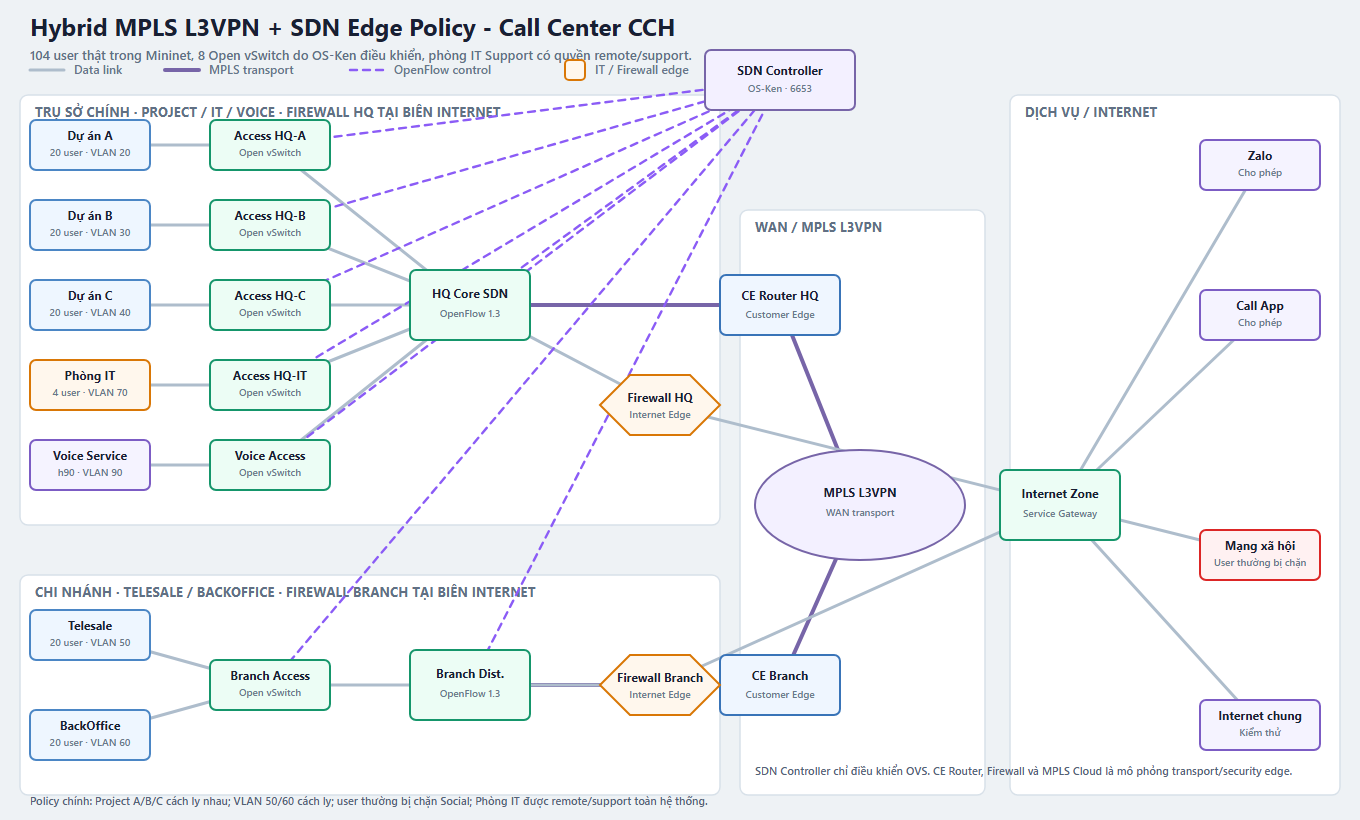
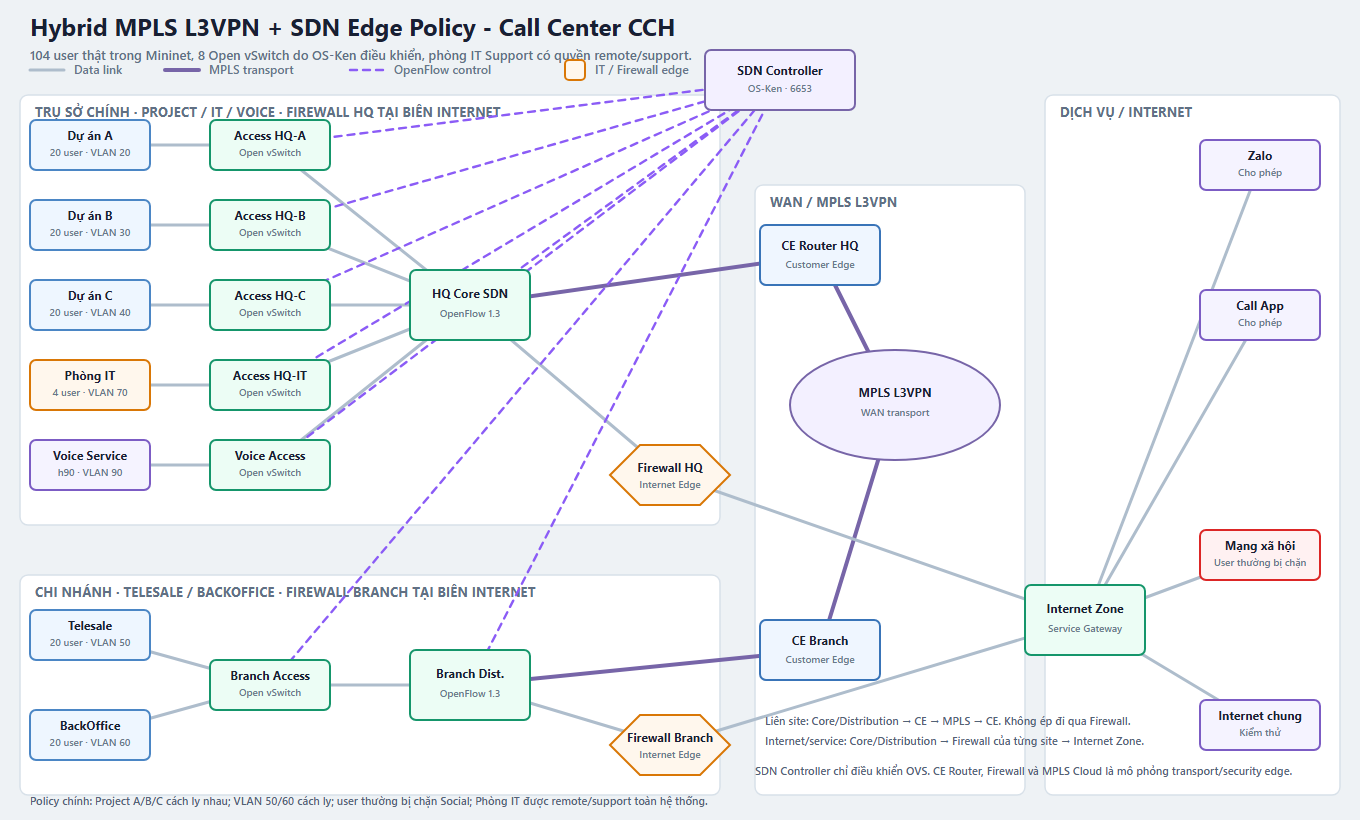
Clarify CE and firewall paths in SDN diagram

diff --git a/dashboard/frontend/src/components/TopologyCanvas.tsx b/dashboard/frontend/src/components/TopologyCanvas.tsx
@@ -6,9 +6,9 @@ const positions: Record<string, [number, number]> = {
   access_hq_a: [270, 145], access_hq_b: [270, 225], access_hq_c: [270, 305], access_hq_it: [270, 385], voice_mgmt: [270, 465],
   core_hq: [470, 305], c0: [780, 80],
   telesale: [90, 635], backoffice: [90, 735], access_branch: [270, 685], dist_branch: [470, 685],
-  fw_hq: [660, 405], fw_branch: [660, 685],
-  ce_hq: [780, 305], mpls_cloud: [860, 505], ce_branch: [780, 685],
-  internet: [1060, 505],
+  fw_hq: [670, 475], fw_branch: [670, 745],
+  ce_hq: [820, 255], mpls_cloud: [895, 405], ce_branch: [820, 650],
+  internet: [1085, 620],
   hzalo: [1260, 165], hcall: [1260, 315], hsocial: [1260, 555], hinternet: [1260, 725],
 };
 
@@ -67,8 +67,10 @@ export default function TopologyCanvas({ links, decision, activeIndex, failedLin
         <svg className="topology-svg" viewBox="0 0 1360 820" aria-label="Sơ đồ mạng Hybrid MPLS và SDN">
           <rect className="zone" x="20" y="95" width="700" height="430" /><text className="zone-label" x="35" y="117">TRỤ SỞ CHÍNH · PROJECT / IT / VOICE · FIREWALL HQ TẠI BIÊN INTERNET</text>
           <rect className="zone" x="20" y="575" width="700" height="220" /><text className="zone-label" x="35" y="597">CHI NHÁNH · TELESALE / BACKOFFICE · FIREWALL BRANCH TẠI BIÊN INTERNET</text>
-          <rect className="zone" x="740" y="210" width="245" height="585" /><text className="zone-label" x="755" y="232">WAN / MPLS L3VPN</text>
-          <rect className="zone" x="1010" y="95" width="330" height="700" /><text className="zone-label" x="1025" y="117">DỊCH VỤ / INTERNET</text>
+          <rect className="zone" x="755" y="185" width="270" height="610" /><text className="zone-label" x="770" y="207">WAN / MPLS L3VPN</text>
+          <rect className="zone" x="1045" y="95" width="295" height="700" /><text className="zone-label" x="1060" y="117">DỊCH VỤ / INTERNET</text>
+          <text className="zone-label" x="765" y="725">Liên site: Core/Dist → CE → MPLS → CE</text>
+          <text className="zone-label" x="765" y="745">Internet/service: qua Firewall từng site</text>
 
           {links.map((link) => {
             const from = positions[link.source]; const to = positions[link.target];

diff --git a/dashboard/backend/app/live_page.py b/dashboard/backend/app/live_page.py
@@ -149,8 +149,8 @@ LIVE_DASHBOARD_HTML = """<!doctype html>
               <text class="zone-title" x="38" y="116">TRỤ SỞ CHÍNH · FIREWALL HQ TẠI BIÊN SITE</text>
               <rect class="zone" x="20" y="535" width="720" height="340" rx="7"/>
               <text class="zone-title" x="38" y="561">CHI NHÁNH · FIREWALL BRANCH TẠI BIÊN SITE</text>
-              <rect class="zone" x="760" y="245" width="340" height="630" rx="7"/>
-              <text class="zone-title" x="778" y="271">WAN / MPLS L3VPN</text>
+              <rect class="zone" x="760" y="210" width="340" height="665" rx="7"/>
+              <text class="zone-title" x="778" y="236">WAN / MPLS L3VPN</text>
               <rect class="zone" x="1120" y="90" width="460" height="785" rx="7"/>
               <text class="zone-title" x="1138" y="116">DỊCH VỤ / INTERNET</text>
 
@@ -169,20 +169,20 @@ LIVE_DASHBOARD_HTML = """<!doctype html>
               <path id="link-backoffice-access_branch" class="net-link" d="M165 760 L230 700"/>
               <path id="link-access_branch-dist_branch" class="net-link" d="M370 687 L430 687"/>
 
-              <path id="link-core_hq-ce_hq" class="net-link mpls" d="M550 300 L800 385"/>
-              <path id="link-ce_hq-mpls_cloud" class="net-link mpls" d="M940 385 L915 465"/>
-              <path id="link-mpls_cloud-ce_branch" class="net-link mpls" d="M915 535 L940 615"/>
-              <path id="link-ce_branch-dist_branch" class="net-link mpls" d="M800 615 L550 675"/>
+              <path id="link-core_hq-ce_hq" class="net-link mpls" d="M550 300 L820 285"/>
+              <path id="link-ce_hq-mpls_cloud" class="net-link mpls" d="M960 285 L950 355"/>
+              <path id="link-mpls_cloud-ce_branch" class="net-link mpls" d="M950 465 L960 655"/>
+              <path id="link-ce_branch-dist_branch" class="net-link mpls" d="M820 655 L550 687"/>
 
-              <path id="link-core_hq-fw_hq" class="net-link" d="M550 287 L600 360"/>
-              <path id="link-fw_hq-internet" class="net-link" d="M720 360 L1200 460"/>
-              <path id="link-dist_branch-fw_branch" class="net-link" d="M550 687 L600 680"/>
-              <path id="link-fw_branch-internet" class="net-link" d="M720 680 L1200 490"/>
+              <path id="link-core_hq-fw_hq" class="net-link" d="M550 307 L620 440"/>
+              <path id="link-fw_hq-internet" class="net-link" d="M740 440 L1200 600"/>
+              <path id="link-dist_branch-fw_branch" class="net-link" d="M550 707 L620 760"/>
+              <path id="link-fw_branch-internet" class="net-link" d="M740 760 L1200 630"/>
 
-              <path id="link-internet-hzalo" class="net-link" d="M1320 470 L1400 210"/>
-              <path id="link-internet-hcall" class="net-link" d="M1320 470 L1400 350"/>
-              <path id="link-internet-hsocial" class="net-link" d="M1320 470 L1400 570"/>
-              <path id="link-internet-hinternet" class="net-link" d="M1320 470 L1400 790"/>
+              <path id="link-internet-hzalo" class="net-link" d="M1320 600 L1400 210"/>
+              <path id="link-internet-hcall" class="net-link" d="M1320 600 L1400 350"/>
+              <path id="link-internet-hsocial" class="net-link" d="M1320 600 L1400 570"/>
+              <path id="link-internet-hinternet" class="net-link" d="M1320 600 L1400 790"/>
 
               <path id="link-c0-core_hq" class="net-link control" d="M930 145 L510 250"/>
               <path id="link-c0-dist_branch" class="net-link control" d="M930 145 L510 650"/>
@@ -210,14 +210,16 @@ LIVE_DASHBOARD_HTML = """<!doctype html>
               <g id="dist_branch" class="node switch" transform="translate(430 650)"><rect width="120" height="75" rx="6"/><text x="60" y="29">Branch Distribution</text><text class="sub" x="60" y="49">OVS · OpenFlow 1.3</text></g>
 
               <g id="c0" class="node controller" transform="translate(850 105)"><rect width="160" height="65" rx="6"/><text x="80" y="26">SDN Controller</text><text class="sub" x="80" y="44">127.0.0.1:6653</text></g>
-              <g id="ce_hq" class="node router" transform="translate(800 355)"><rect width="140" height="60" rx="6"/><text x="70" y="25">CE Router HQ</text><text class="sub" x="70" y="43">Customer Edge</text></g>
-              <g id="mpls_cloud" class="node cloud"><ellipse cx="930" cy="500" rx="105" ry="55"/><text x="930" y="491">MPLS L3VPN Cloud</text><text class="sub" x="930" y="511">ISP quản lý · WAN transport</text></g>
-              <g id="ce_branch" class="node router" transform="translate(800 585)"><rect width="140" height="60" rx="6"/><text x="70" y="25">CE Router Branch</text><text class="sub" x="70" y="43">Customer Edge</text></g>
+              <g id="ce_hq" class="node router" transform="translate(820 255)"><rect width="140" height="60" rx="6"/><text x="70" y="25">CE Router HQ</text><text class="sub" x="70" y="43">Customer Edge</text></g>
+              <g id="mpls_cloud" class="node cloud"><ellipse cx="950" cy="410" rx="105" ry="55"/><text x="950" y="401">MPLS L3VPN Cloud</text><text class="sub" x="950" y="421">ISP quản lý · WAN transport</text></g>
+              <g id="ce_branch" class="node router" transform="translate(820 625)"><rect width="140" height="60" rx="6"/><text x="70" y="25">CE Router Branch</text><text class="sub" x="70" y="43">Customer Edge</text></g>
+              <text class="policy-text" x="780" y="760">Liên site: Core/Dist → CE → MPLS → CE. Không đi qua Firewall.</text>
+              <text class="policy-text" x="780" y="785">Internet/service: Core/Dist → Firewall site → Internet Zone.</text>
               <text class="policy-text" x="785" y="830">Controller không điều khiển CE Router hoặc MPLS Cloud.</text>
 
-              <g id="fw_hq" class="node security" transform="translate(600 330)"><polygon points="0,30 30,0 90,0 120,30 90,60 30,60"/><text x="60" y="27">Firewall HQ</text><text class="sub" x="60" y="43">HQ Internet Edge</text></g>
-              <g id="fw_branch" class="node security" transform="translate(600 650)"><polygon points="0,30 30,0 90,0 120,30 90,60 30,60"/><text x="60" y="27">Firewall Branch</text><text class="sub" x="60" y="43">Branch Internet Edge</text></g>
-              <g id="internet" class="node switch" transform="translate(1200 435)"><rect width="120" height="70" rx="6"/><text x="60" y="28">Internet Zone</text><text class="sub" x="60" y="47">Service Gateway</text></g>
+              <g id="fw_hq" class="node security" transform="translate(620 410)"><polygon points="0,30 30,0 90,0 120,30 90,60 30,60"/><text x="60" y="27">Firewall HQ</text><text class="sub" x="60" y="43">HQ Internet Edge</text></g>
+              <g id="fw_branch" class="node security" transform="translate(620 730)"><polygon points="0,30 30,0 90,0 120,30 90,60 30,60"/><text x="60" y="27">Firewall Branch</text><text class="sub" x="60" y="43">Branch Internet Edge</text></g>
+              <g id="internet" class="node switch" transform="translate(1200 565)"><rect width="120" height="70" rx="6"/><text x="60" y="28">Internet Zone</text><text class="sub" x="60" y="47">Service Gateway</text></g>
               <g id="hzalo" class="node service" transform="translate(1400 180)"><rect width="140" height="60" rx="6"/><text x="70" y="25">Zalo Service</text><text class="sub" x="70" y="43">hzalo · Cho phép</text></g>
               <g id="hcall" class="node service" transform="translate([phone redacted])"><rect width="140" height="60" rx="6"/><text x="70" y="25">Call App / CRM</text><text class="sub" x="70" y="43">hcall · Cho phép</text></g>
               <g id="hsocial" class="node blocked" transform="translate(1400 540)"><rect width="140" height="60" rx="6"/><text x="70" y="25">Mạng xã hội</text><text class="sub" x="70" y="43">hsocial · Bị chặn</text></g>
@@ -302,10 +304,10 @@ const pair = () => ({
 const positions = {
   project_a:[105,160], project_b:[105,240], project_c:[105,320], it_support:[105,390], h90:[105,465],
   access_hq_a:[295,160], access_hq_b:[295,240], access_hq_c:[295,320], access_hq_it:[295,390], voice_mgmt:[295,465],
-  core_hq:[490,287], fw_hq:[660,360], fw_branch:[660,680],
-  ce_hq:[870,385], mpls_cloud:[930,500], ce_branch:[870,615],
+  core_hq:[490,287], fw_hq:[680,440], fw_branch:[680,760],
+  ce_hq:[890,285], mpls_cloud:[950,410], ce_branch:[890,655],
   telesale:[105,635], backoffice:[105,760], access_branch:[300,687], dist_branch:[490,687],
-  internet:[1260,470],
+  internet:[1260,600],
   hzalo:[1470,210], hcall:[1470,350], hsocial:[1470,570], hinternet:[1470,790],
   c0:[930,137],
 };